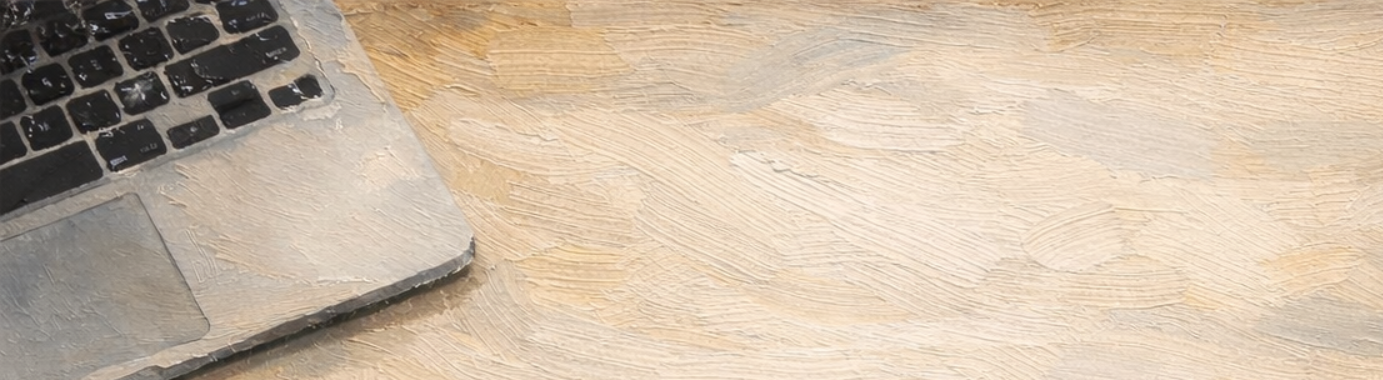
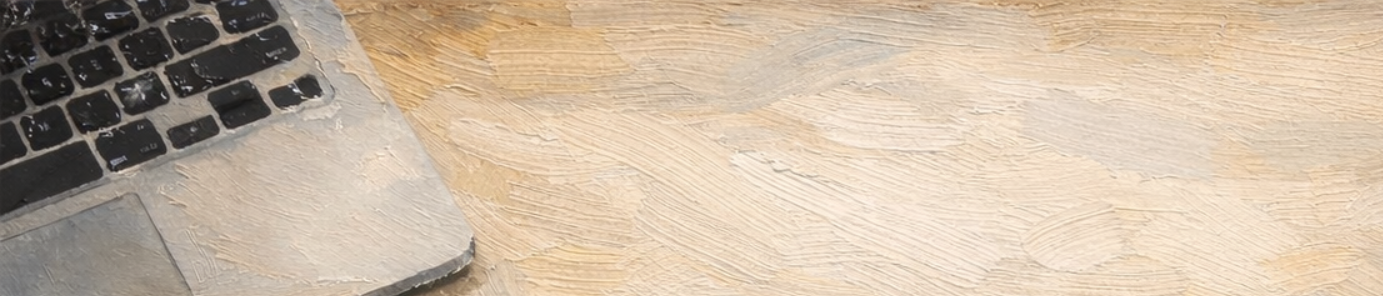
Update web background image for pricing and refresh cache to v=6

diff --git a/style.css b/style.css
@@ -148,7 +148,7 @@ h4 {
 }
 
 .pricing-header {
-    background-image: linear-gradient(rgba(255, 255, 255, 0.41), rgba(255, 255, 255, 0.41)), url('images/パソコン背景ウェブ版.png?v=5');
+    background-image: linear-gradient(rgba(255, 255, 255, 0.41), rgba(255, 255, 255, 0.41)), url('images/パソコン背景ウェブ版.png?v=6');
     background-size: cover;
     background-position: center;
 }
